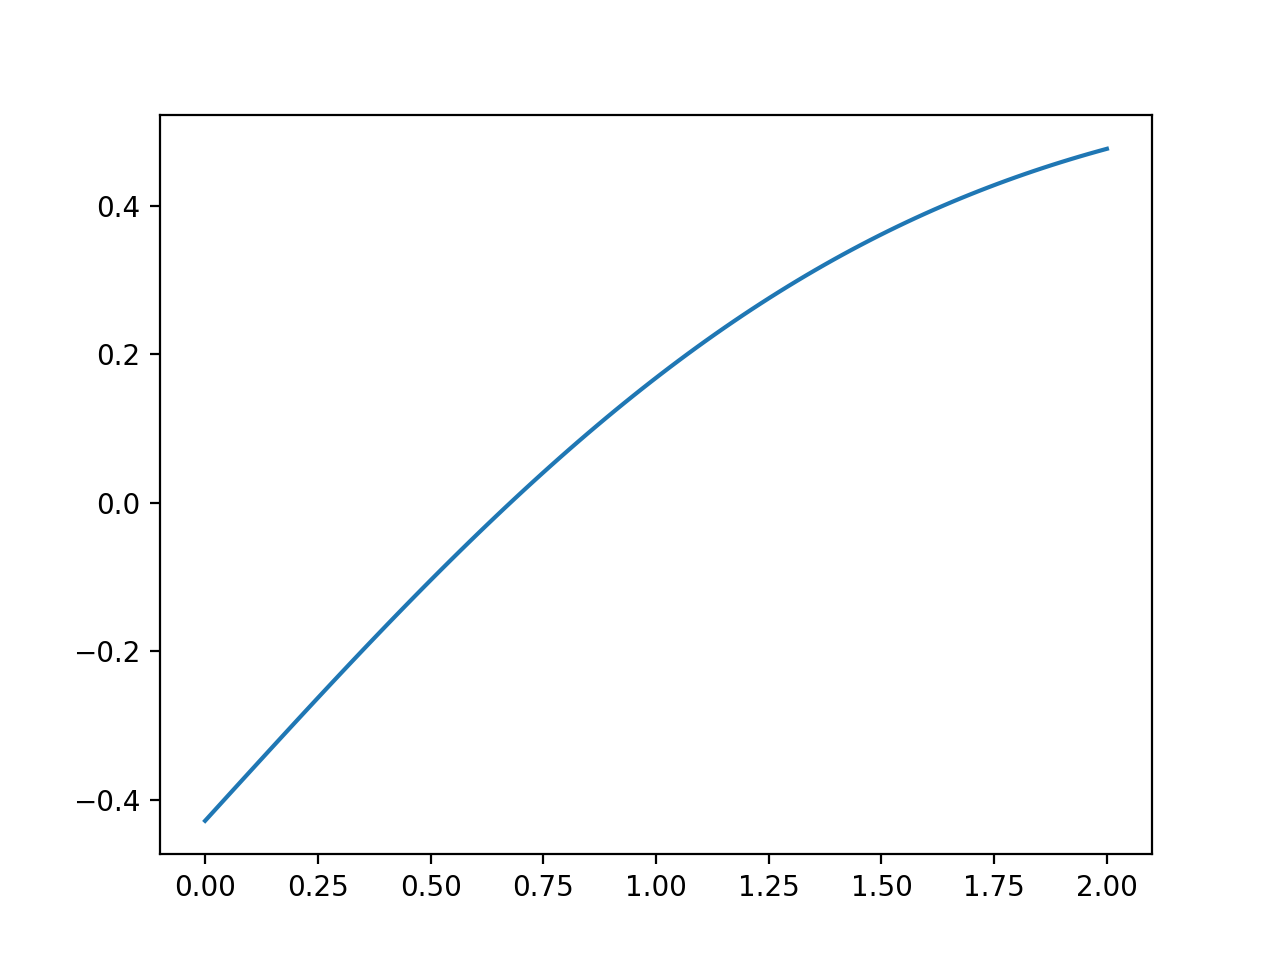
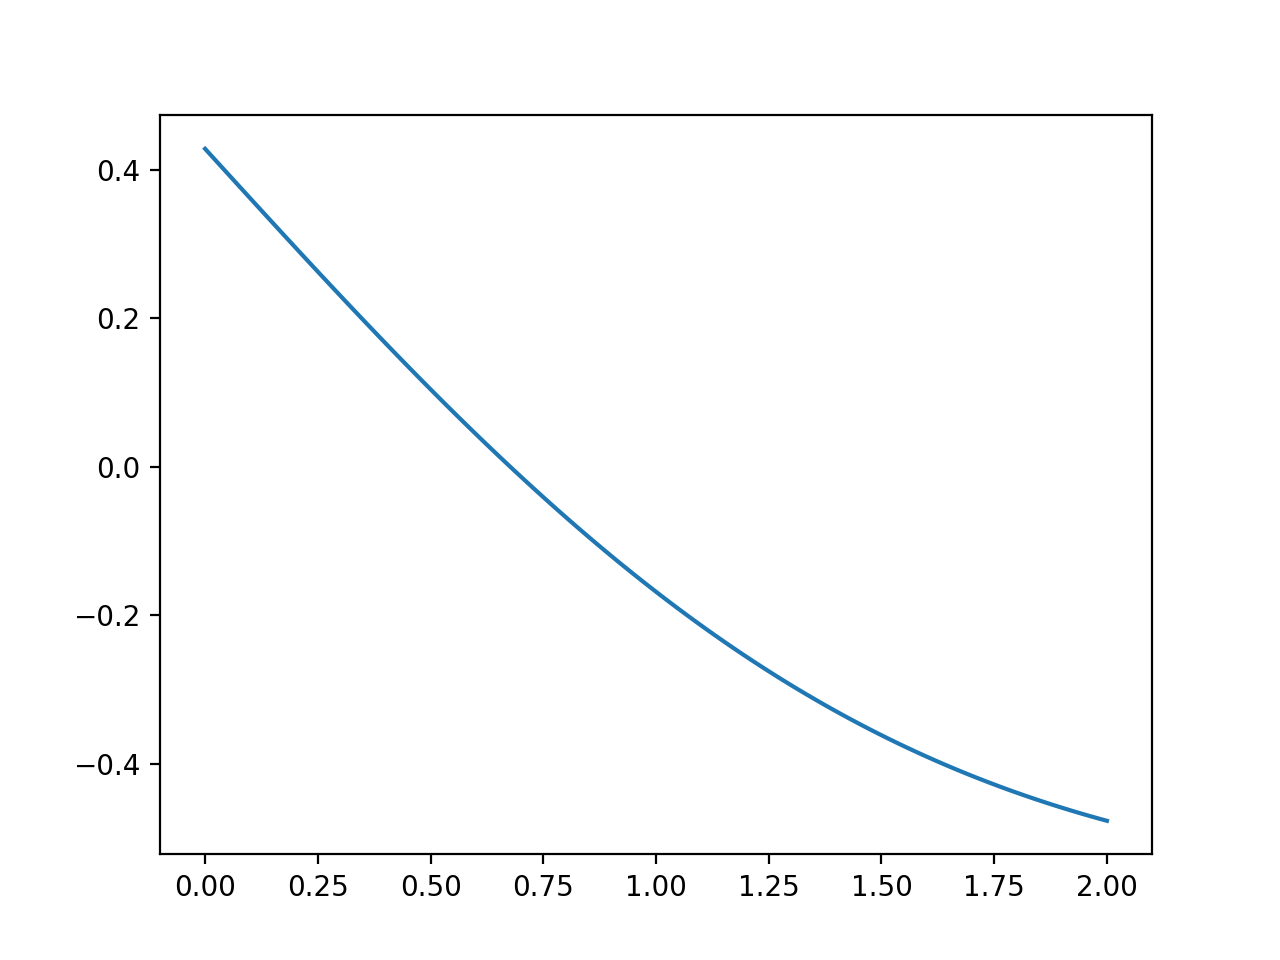
hw4 code

diff --git a/Homeworks/Homework4/newton_example.py b/Homeworks/Homework4/newton_example.py
@@ -1,0 +1,56 @@
+# import libraries
+import numpy as np
+import scipy.special as special
+        
+def driver():
+#f = lambda x: (x-2)**3
+#fp = lambda x: 3*(x-2)**2
+#p0 = 1.2
+  
+  alpha = 0.138 * 10**-6
+  t = 3600*60*24
+  f = lambda x:( 15/35 - special.erf(x/(2*np.sqrt(alpha*t))))
+  fp = lambda x: -1/(np.sqrt(np.pi)*np.sqrt(alpha*t))*np.exp((-x/4*(alpha*t)))
+  p0 = 6.7696185448193635e-01
+
+  Nmax = 100
+  tol = 1.e-13
+
+  (p,pstar,info,it) = newton(f,fp,p0,tol, Nmax)
+  print('the approximate root is', '%16.16e' % pstar)
+  print('the error message reads:', '%d' % info)
+  print('Number of iterations:', '%d' % it)
+
+
+def newton(f,fp,p0,tol,Nmax):
+  """
+  Newton iteration.
+  
+  Inputs:
+    f,fp - function and derivative
+    p0   - initial guess for root
+    tol  - iteration stops when p_n,p_{n+1} are within tol
+    Nmax - max number of iterations
+  Returns:
+    p     - an array of the iterates
+    pstar - the last iterate
+    info  - success message
+          - 0 if we met tol
+          - 1 if we hit Nmax iterations (fail)
+     
+  """
+  p = np.zeros(Nmax+1);
+  p[0] = p0
+  for it in range(Nmax):
+      p1 = p0-f(p0)/fp(p0)
+      p[it+1] = p1
+      if (abs(p1-p0) < tol):
+          pstar = p1
+          info = 0
+          return [p,pstar,info,it]
+      p0 = p1
+  pstar = p1
+  info = 1
+  return [p,pstar,info,it]
+        
+driver()

diff --git a/Homeworks/Homework4/HW4.py b/Homeworks/Homework4/HW4.py
@@ -1,4 +1,4 @@
-import scipy.integrate as integrate
+import scipy.special as special 
 import numpy as np
 import matplotlib.pyplot as plt
 
@@ -6,14 +6,14 @@ alpha = 0.138 * 10**-6
 t = 3600*60*24
 
 x = np.linspace(0, 2, 100)
-bound = np.array([i/(2*np.sqrt(t*alpha)) for i in x])
+#bound = np.array([i/(2*np.sqrt(t*alpha)) for i in x])
 
-tempF = []
-for i in bound:
-    temp, _ = integrate.quad(lambda s: np.exp(-s**2), 0 ,i)
-    tempF.append(temp)
+#tempF = []
+#for i in bound:
+    #temp, _ = integrate.quad(lambda s: np.exp(-s**2), 0 ,i)
+    #tempF.append(temp)
 
-f =  (15/35 - (2/np.sqrt(np.pi))*np.array(tempF))*-1                              
+f =  (15/35 - special.erf(x/(2*np.sqrt(alpha*t))))                              
 
 
 plt.plot(x,f)

diff --git a/Homeworks/Homework4/bisection.py b/Homeworks/Homework4/bisection.py
@@ -1,13 +1,13 @@
 # import libraries
 import numpy as np
-import scipy.integrate as integrate
+import scipy.special as special
 
 def driver():
 
 # use routines    
     alpha = 0.138 * 10**-6
     t = 3600*60*24
-    f = lambda x: -1*(15/35 - (2/np.sqrt(np.pi))*integrate.quad(lambda s: np.exp(-s**2), 0 ,(x/(2*np.sqrt(t*alpha))))[0])
+    f = lambda x:( 15/35 - special.erf(x/(2*np.sqrt(alpha*t))))
 
     a = 0
     b = 2
